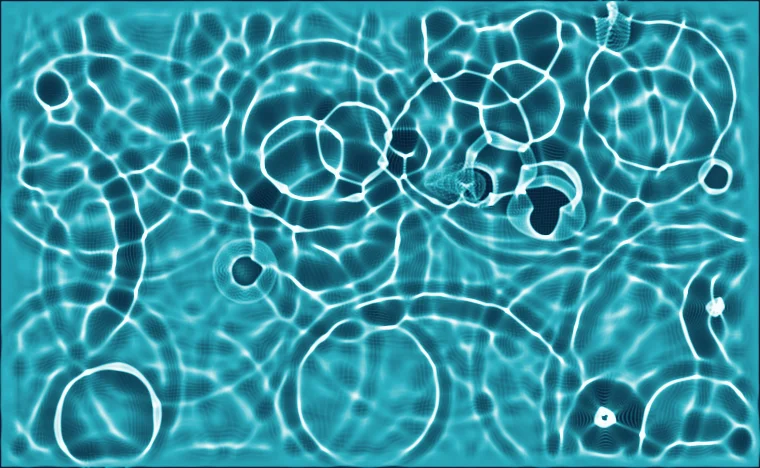
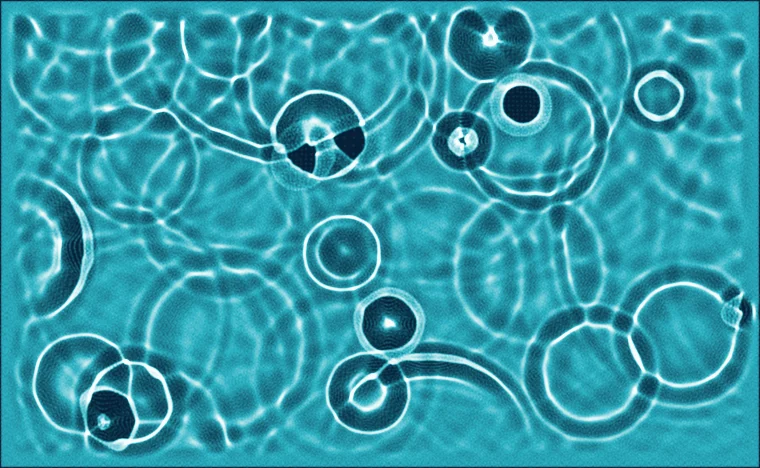
waves: slower waves, drag-to-draw, splat grid artifact fixed
- wave speed² 0.35 → 0.20: rings ride out unhurried (~27 px/s); the
  drizzle rebalanced quieter (6/s at 0.28) so a clicked or drawn wave
  clearly owns the pool
- drag draws: droplet rings laid every ~14 px along the stroke
  superpose into a drawn wavefront
- the 'grid' in dark cores was the photon splat's sampling lattice —
  one ray per exact texel centre imprints a stretched grid wherever the
  refraction map expands. Each ray now starts from a hash-jittered
  sub-pixel origin (deterministic i32 scramble), turning the lattice
  into noise the blur absorbs; the splash's centre dip also widened,
  since sharp small features excite the stencil's hexagonal lattice
  anisotropy

diff --git a/examples/waves/index.html b/examples/waves/index.html
@@ -11,13 +11,15 @@ import { runDemo } from "../lib/jzdemo.js"
 
 // Swimming-pool caustics (see waves.js — after KZ_LAB_E's caustics simulation): a calm pool
 // whose gentle swell folds sunlight into the classic slowly-shimmering caustic net. Click to
-// splash — a thick ring rides out and fades in a few seconds. Scroll sets the POOL DEPTH
-// (shallow barely bends the light, deep folds every ripple hard). Dice throws splashes.
+// splash; DRAG to draw — droplet rings laid along the stroke merge into a drawn wavefront.
+// Scroll sets the POOL DEPTH (shallow barely bends the light, deep folds every ripple hard).
+// Dice throws splashes.
 let foc = 150                         // pool depth (focal length of the refraction)
+let drawing = false, lx = 0, ly = 0   // stroke state, in backing pixels
 
 const demo = runDemo({
   name: "waves",
-  hint: "a calm pool folding sunlight — real caustics · click to splash · scroll = depth",
+  hint: "a calm pool folding sunlight — real caustics · click to splash · drag to draw · scroll = depth",
   size: { budget: 420000 },
   bg: "#2b98ac",
   load: (e) => { e.clear() },
@@ -27,10 +29,28 @@ const demo = runDemo({
   },
 })
 
-demo.cv.addEventListener("pointerdown", (e) => {
+const toPx = (e) => {
   const r = demo.cv.getBoundingClientRect()
-  demo.engine?.drop((e.clientX - r.left) / r.width * demo.W, (e.clientY - r.top) / r.height * demo.H)
+  return [(e.clientX - r.left) / r.width * demo.W, (e.clientY - r.top) / r.height * demo.H]
+}
+demo.cv.addEventListener("pointerdown", (e) => {
+  const [x, y] = toPx(e)
+  demo.engine?.drop(x, y)
+  drawing = true; lx = x; ly = y
+  try { demo.cv.setPointerCapture(e.pointerId) } catch {}
 })
+demo.cv.addEventListener("pointermove", (e) => {
+  if (!drawing || !demo.engine) return
+  const [x, y] = toPx(e)
+  // lay droplet rings along the stroke, one every ~14 px — they superpose into a line wave
+  const dx = x - lx, dy = y - ly, d = Math.hypot(dx, dy)
+  if (d < 14) return
+  const n = Math.ceil(d / 14)
+  for (let i = 1; i <= n; i++) demo.engine.drop(lx + dx * i / n, ly + dy * i / n)
+  lx = x; ly = y
+})
+demo.cv.addEventListener("pointerup", (e) => { drawing = false; try { demo.cv.releasePointerCapture(e.pointerId) } catch {} })
+demo.cv.addEventListener("pointerleave", () => { drawing = false })
 demo.cv.addEventListener("wheel", (e) => {
   e.preventDefault()
   foc *= Math.exp(-e.deltaY * 0.001)

diff --git a/examples/waves/waves.js b/examples/waves/waves.js
@@ -24,13 +24,14 @@ let dampField          // per-cell damping = global damp × edge sponge
 let rs = 0             // xorshift32 — the rain (i32 wraps identically in JS and jz)
 let glut               // Int32Array(1024) — photon density → pool-water color
 
-const C2 = 0.35        // wave speed² (CFL-stable for the 9-point stencil at ≤0.5)
+const C2 = 0.20        // wave speed² (CFL-stable for the 9-point stencil at ≤0.5) — unhurried
 const SUB = 1          // one leapfrog substep per frame — the pool shimmers, it doesn't race
 const DAMP = 0.993     // a click's rings ride out and settle into the ambient net in ~3 s
 const MARGIN = 18      // edge-sponge width (cells)
 const MARGINDAMP = 0.94
-const RAIN = 8.0       // soft plops per second — the source of the ambient swell
-const RAINA = 0.38     // plop amplitude (signs alternate → zero-mean surface)
+const RAIN = 6.0       // soft plops per second — the source of the ambient swell
+const RAINA = 0.28     // plop amplitude (signs alternate → zero-mean surface); quiet enough
+                       // that a clicked or drawn wave clearly OWNS the pool
 const O = 0.66667, D = 0.16667, CEN = -3.33333   // 9-point isotropic Laplacian weights
 
 export let resize = (w, h) => {
@@ -125,7 +126,7 @@ let plop = (cx, cy, r, amp, both) => {
 // cleanly outward with no ingoing rebound and no velocity shock) plus a soft dip at the
 // centre where the drop landed
 export let drop = (cx, cy) => {
-  let R0 = 7.0, WD = 5.5, AMP = 1.5
+  let R0 = 7.0, WD = 6.0, AMP = 1.2
   let cs = Math.sqrt(C2)                   // lattice wave speed, px per substep
   let rO = R0 + WD * 3.0
   let x0 = (cx - rO) | 0, x1 = (cx + rO) | 0, y0 = (cy - rO) | 0, y1 = (cy + rO) | 0
@@ -150,8 +151,9 @@ export let drop = (cx, cy) => {
     }
     y++
   }
-  plop(cx, cy, 4.5, -1.1, 1)               // the dip where the droplet punched through
-}
+  plop(cx, cy, 7.0, -0.7, 1)               // the dip where the droplet punched through — wide
+}                                          // and shallow: sharp small features excite the
+                                           // stencil's lattice anisotropy (hexagonal fronts)
 
 // one leapfrog substep of the linear wave equation
 let step = () => {
@@ -199,9 +201,13 @@ export let frame = (t, foc) => {
       let gx = (a[c + 1] - a[c - 1]) * 0.5
       let gy = (a[c + w] - a[c - w]) * 0.5
       // refraction bends the ray TOWARD the surface normal (air → water), so the floor hit
-      // shifts DOWNHILL: crests converge light (bright), pressed dimples diverge it (dark)
-      let xf = x + foc * gx
-      let yf = y + foc * gy
+      // shifts DOWNHILL: crests converge light (bright), pressed dimples diverge it (dark).
+      // Each ray starts from a hash-jittered sub-pixel origin — one ray per exact texel
+      // centre imprints the sampling GRID wherever the refraction map stretches (a dotted
+      // lattice in every dark core); the jitter turns that into noise the blur then absorbs.
+      let hj = (x * 1103515245 + 12345) ^ (y * 12820163 + 9301)
+      let xf = x + foc * gx + ((hj & 255) - 127.5) * 0.0035
+      let yf = y + foc * gy + (((hj >> 8) & 255) - 127.5) * 0.0035
       if (xf >= 0.0 && xf < w - 1.001 && yf >= 0.0 && yf < h - 1.001) {
         let xi = xf | 0, yi = yf | 0
         let fx = xf - xi, fy = yf - yi